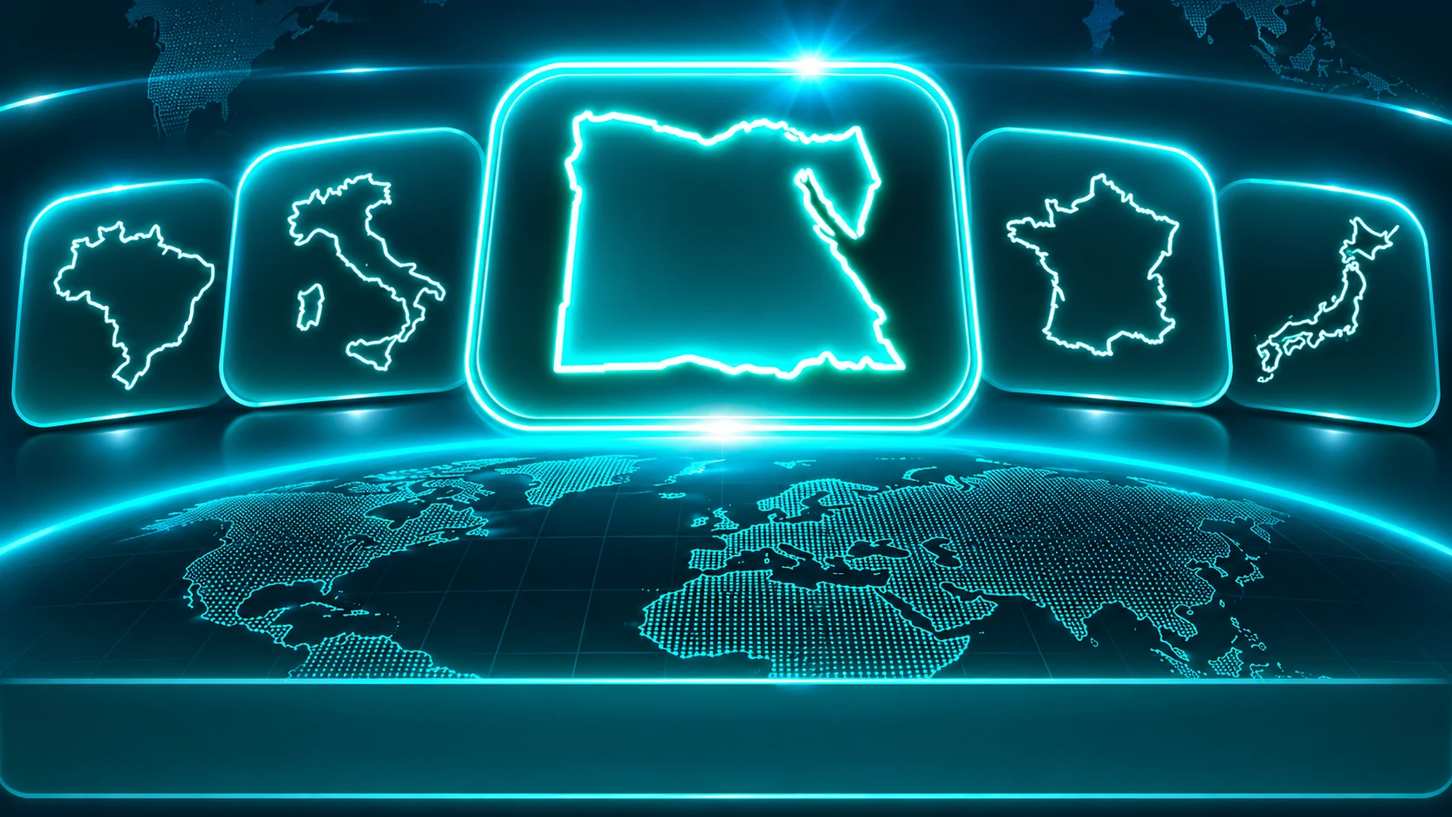
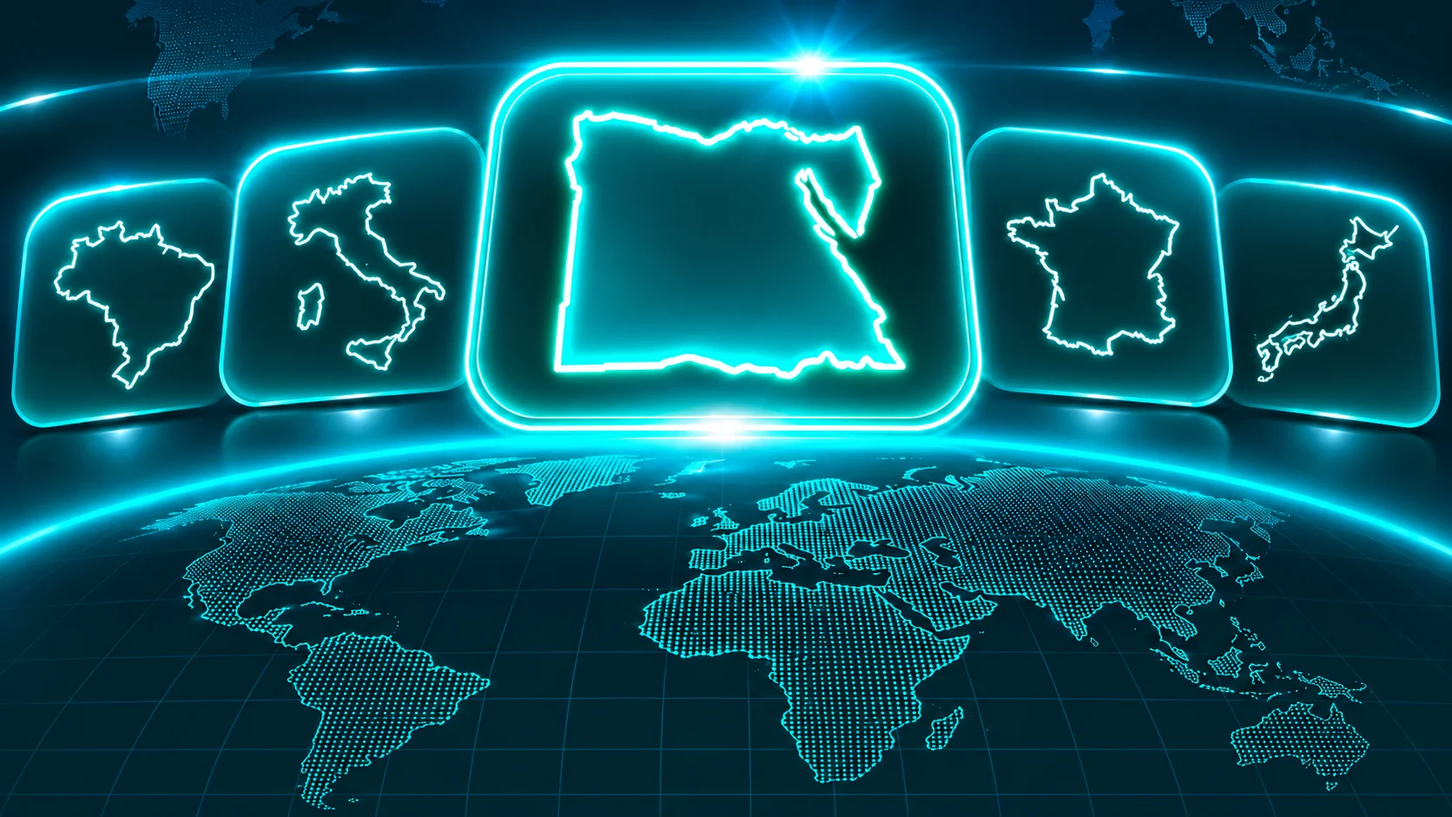
Unify contextual navigation and clean up silhouette game cover

diff --git a/index.html b/index.html
@@ -495,7 +495,7 @@ catch(e){document.documentElement.dataset.gvInitialTheme='dark'}
 <link rel="stylesheet" href="./astronomy-v231.css?v=gv338-astronomy-unified-hero-uncropped">
 <link rel="stylesheet" href="./solar-system-v232.css?v=gv233-solar-view">
 <link rel="stylesheet" href="./planet-experience-v234.css?v=gv237-structural-mobile-grid">
-<link rel="stylesheet" href="./astronomy-experiences-v235.css?v=gv269-clean-layout">
+<link rel="stylesheet" href="./astronomy-experiences-v235.css?v=gv678-context-navigation">
 <link rel="stylesheet" href="./astronomy-lessons-v238.css?v=gv238-expanded-lessons">
 <link rel="stylesheet" href="./astronomy-chapters-v239.css?v=gv269-clean-layout">
 <link rel="stylesheet" href="./astronomy-depth-v242.css?v=gv242-audit">
@@ -516,7 +516,7 @@ catch(e){document.documentElement.dataset.gvInitialTheme='dark'}
 <link rel="stylesheet" href="./tourism-navigation-premium-v539.css?v=gv539-premium-nav-icons">
 <link rel="stylesheet" href="./tourism-card-icons-v540.css?v=gv540-card-vector-icons">
 <link rel="stylesheet" href="./tourism-image-finish-v534.css?v=gv537-seam-softening">
-<link rel="stylesheet" href="./navigation-global-compact-v543.css?v=gv545-vector-back">
+<link rel="stylesheet" href="./navigation-global-compact-v543.css?v=gv678-context-navigation">
 <link rel="stylesheet" href="./tourism-country-spacing-v546.css?v=gv547-inline-count">
 <link rel="stylesheet" href="./header-brand-layout-v548.css?v=gv548-brand-right-no-grid">
 <link rel="stylesheet" href="./home-wonders-section-v550.css?v=gv553-three-dividers">
@@ -655,7 +655,7 @@ window.__gv138BootFailsafe=setTimeout(function(){
 </div>
 <script src="https://cdn.jsdelivr.net/npm/d3-array@3/dist/d3-array.min.js"></script><script src="https://cdn.jsdelivr.net/npm/d3-geo@3/dist/d3-geo.min.js"></script><script src="https://cdn.jsdelivr.net/npm/topojson-client@3/dist/topojson-client.min.js"></script>
 <script src="https://cdn.jsdelivr.net/npm/globe.gl@2.46.2/dist/globe.gl.min.js"></script><script src="./app.js?v=gv669-desert-expansion"></script><script src="./category-premium-covers-v176.js?v=gv549-world-astronomy"></script><script src="./place-copy-v103.js?v=gv106-waterfall-intros"></script><script src="./quality.js?v=phase41-a91d6"></script><script src="./enhancements-v136.js?v=gv669-desert-expansion"></script><script src="./capital-localization.js?v=gv491-currency-localization"></script><script src="./language-v6.js?v=gv356-capital-placeholder-fix"></script><script src="./map-mobile-v6.js?v=phase41-a91d6"></script><script src="./reading-v6.js?v=phase41-a91d6"></script><script src="./map-v7.js?v=gv126-results-layout"></script><script src="./encyclopedia-v9.js?v=gv372-audit-pop-year"></script><script src="./cinematic-v10.js?v=phase41-a91d6"></script>
-<script src="./visual-v11.js?v=gv550-wonders-separator"></script><script src="./topics-v12.js?v=gv667-unique-forest-gulf-counts"></script><script src="./places-v13.js?v=gv669-desert-expansion"></script><script src="./detail-v14.js?v=gv669-desert-expansion"></script><script src="./home-v17.js?v=gv677-home-progress"></script><script src="./icons-v18.js?v=phase46-cache-fix"></script><script src="./game-bank-v109.js?v=gv111-game-pools"></script><script src="./game-countries-v111.js?v=gv493-flag-games-qa"></script><script src="./game-levels-v110.js?v=gv111-difficulty-atlas-fix"></script><script src="./map-challenge-v112.js?v=gv112-161-map-countries"></script><script src="./game-classify-v113.js?v=gv113b-no-answer-leaks"></script><script src="./game-quality-v114.js?v=gv114b-curated-quiz-integrity"></script><script src="./game-concepts-v115.js?v=gv115-concepts100"></script><script src="./game-expansion-v115.js?v=gv116-curated-quiz-bank"></script><script src="./game-classification-v116.js?v=gv116b-reviewed-classification"></script><script src="./game-language-v123.js?v=gv123-all-options-localized"></script><script src="./game-bilingual-v124.js?v=gv124-two-line-answers"></script><script src="./premium-loader-v139.js"></script><script src="./atlas-premium-v155.js?v=gv595-initial-map-filter"></script><script src="./atlas-landmarks-v154.js?v=gv166-focus-hook"></script><script src="./atlas-safe-regions-v150.js"></script><script src="./map-toolbar-v146.js?v=gv163-restored-categories"></script><script src="./atlas-ocean-dots-v152.js"></script><script src="./atlas-card-consistency-v156.js"></script><script src="./atlas-country-shell-v157.js"></script><script src="./atlas-smart-explore-v158.js"></script><script src="./map-first-mobile-v160.js?v=gv160-fix"></script><script src="./map-filters-compact-v161.js?v=gv161-preserve-landmarks"></script><script src="./map-mobile-fit-v162.js?v=gv162-viewport-fix"></script><script src="./atlas-learning-cards-v164.js?v=gv669-desert-expansion"></script><script src="./atlas-smart-highlight-v167.js?v=gv167-focus-fix"></script><script src="./tourism-attractions-v168.js?v=gv657-tourism-intro-lines"></script><script src="./tourism-filter-visibility-v169.js?v=gv169-visible-filter"></script><script src="./tourism-country-guide-v170.js?v=gv620-72-countries"></script><script src="./tourism-country-cards-v181.js?v=gv656-tourism-intro"></script><script src="./sidebar-toggle-fix-v181.js?v=gv217-sections-shortcut"></script><script src="./tourism-articles-ar-v202.js?v=gv202-48-editorial-articles"></script><script src="./tourism-enrichment-v206.js?v=gv206-eg-fr-8"></script><script src="./tourism-enrichment-v207.js?v=gv207-it-sa-8"></script><script src="./tourism-enrichment-v208.js?v=gv208-turkey-spain-8"></script><script src="./tourism-enrichment-v212.js?v=gv212-uk-us-8"></script><script src="./tourism-enrichment-v213.js?v=gv213-cn-in-8"></script><script src="./tourism-enrichment-v214.js?v=gv214-jp-ae-8"></script><script src="./tourism-enrichment-v215.js?v=gv215-asia-16"></script><script src="./tourism-editorial-phase1-v505.js?v=gv505-editorial-24"></script><script src="./tourism-editorial-phase2-v506.js?v=gv507-editorial-40-keyfix"></script><script src="./tourism-editorial-phase3-v507.js?v=gv622-strasbourg"></script><script src="./tourism-editorial-phase4-v508.js?v=gv508-editorial-40"></script><script src="./tourism-editorial-phase5-v509.js?v=gv509-editorial-29"></script><script src="./tourism-editorial-phase6-v510.js?v=gv510-vietnam-three"></script><script src="./tourism-deep-enrichment-v597.js?v=gv646-final-length-audit"></script><script src="./tourism-english-profiles-v647.js?v=gv666-english-complete"></script><script src="./tourism-knowledge-v196.js?v=gv656-tourism-intro"></script><script src="./navigation-refresh-v193.js?v=gv218-recovery"></script><script src="./wonders-atlas-v228.js?v=gv270-text-cleanup"></script><script src="./astronomy-v231.js?v=gv338-astronomy-unified-hero-uncropped"></script><script src="./solar-system-v232.js?v=gv253-render-embedded-summaries"></script><script src="./planet-experience-v234.js?v=gv237-two-physical-rows"></script><script src="./astronomy-experiences-v235.js?v=gv269-clean-layout"></script><script src="./astronomy-lessons-v238.js?v=gv284-final-science-edit"></script><script src="./astronomy-chapters-v239.js?v=gv285-ar-figures-final"></script><script src="./astronomy-depth-v242.js?v=gv242-audit"></script><script src="./astronomy-editorial-v252.js?v=gv254-venus-accuracy"></script>
+<script src="./visual-v11.js?v=gv550-wonders-separator"></script><script src="./topics-v12.js?v=gv667-unique-forest-gulf-counts"></script><script src="./places-v13.js?v=gv669-desert-expansion"></script><script src="./detail-v14.js?v=gv669-desert-expansion"></script><script src="./home-v17.js?v=gv678-context-navigation"></script><script src="./icons-v18.js?v=phase46-cache-fix"></script><script src="./game-bank-v109.js?v=gv111-game-pools"></script><script src="./game-countries-v111.js?v=gv493-flag-games-qa"></script><script src="./game-levels-v110.js?v=gv111-difficulty-atlas-fix"></script><script src="./map-challenge-v112.js?v=gv112-161-map-countries"></script><script src="./game-classify-v113.js?v=gv113b-no-answer-leaks"></script><script src="./game-quality-v114.js?v=gv114b-curated-quiz-integrity"></script><script src="./game-concepts-v115.js?v=gv115-concepts100"></script><script src="./game-expansion-v115.js?v=gv116-curated-quiz-bank"></script><script src="./game-classification-v116.js?v=gv116b-reviewed-classification"></script><script src="./game-language-v123.js?v=gv123-all-options-localized"></script><script src="./game-bilingual-v124.js?v=gv124-two-line-answers"></script><script src="./premium-loader-v139.js"></script><script src="./atlas-premium-v155.js?v=gv595-initial-map-filter"></script><script src="./atlas-landmarks-v154.js?v=gv166-focus-hook"></script><script src="./atlas-safe-regions-v150.js"></script><script src="./map-toolbar-v146.js?v=gv163-restored-categories"></script><script src="./atlas-ocean-dots-v152.js"></script><script src="./atlas-card-consistency-v156.js"></script><script src="./atlas-country-shell-v157.js"></script><script src="./atlas-smart-explore-v158.js"></script><script src="./map-first-mobile-v160.js?v=gv160-fix"></script><script src="./map-filters-compact-v161.js?v=gv161-preserve-landmarks"></script><script src="./map-mobile-fit-v162.js?v=gv162-viewport-fix"></script><script src="./atlas-learning-cards-v164.js?v=gv669-desert-expansion"></script><script src="./atlas-smart-highlight-v167.js?v=gv167-focus-fix"></script><script src="./tourism-attractions-v168.js?v=gv657-tourism-intro-lines"></script><script src="./tourism-filter-visibility-v169.js?v=gv169-visible-filter"></script><script src="./tourism-country-guide-v170.js?v=gv620-72-countries"></script><script src="./tourism-country-cards-v181.js?v=gv678-context-navigation"></script><script src="./sidebar-toggle-fix-v181.js?v=gv217-sections-shortcut"></script><script src="./tourism-articles-ar-v202.js?v=gv202-48-editorial-articles"></script><script src="./tourism-enrichment-v206.js?v=gv206-eg-fr-8"></script><script src="./tourism-enrichment-v207.js?v=gv207-it-sa-8"></script><script src="./tourism-enrichment-v208.js?v=gv208-turkey-spain-8"></script><script src="./tourism-enrichment-v212.js?v=gv212-uk-us-8"></script><script src="./tourism-enrichment-v213.js?v=gv213-cn-in-8"></script><script src="./tourism-enrichment-v214.js?v=gv214-jp-ae-8"></script><script src="./tourism-enrichment-v215.js?v=gv215-asia-16"></script><script src="./tourism-editorial-phase1-v505.js?v=gv505-editorial-24"></script><script src="./tourism-editorial-phase2-v506.js?v=gv507-editorial-40-keyfix"></script><script src="./tourism-editorial-phase3-v507.js?v=gv622-strasbourg"></script><script src="./tourism-editorial-phase4-v508.js?v=gv508-editorial-40"></script><script src="./tourism-editorial-phase5-v509.js?v=gv509-editorial-29"></script><script src="./tourism-editorial-phase6-v510.js?v=gv510-vietnam-three"></script><script src="./tourism-deep-enrichment-v597.js?v=gv646-final-length-audit"></script><script src="./tourism-english-profiles-v647.js?v=gv666-english-complete"></script><script src="./tourism-knowledge-v196.js?v=gv656-tourism-intro"></script><script src="./navigation-refresh-v193.js?v=gv218-recovery"></script><script src="./wonders-atlas-v228.js?v=gv270-text-cleanup"></script><script src="./astronomy-v231.js?v=gv338-astronomy-unified-hero-uncropped"></script><script src="./solar-system-v232.js?v=gv253-render-embedded-summaries"></script><script src="./planet-experience-v234.js?v=gv237-two-physical-rows"></script><script src="./astronomy-experiences-v235.js?v=gv678-context-navigation"></script><script src="./astronomy-lessons-v238.js?v=gv284-final-science-edit"></script><script src="./astronomy-chapters-v239.js?v=gv285-ar-figures-final"></script><script src="./astronomy-depth-v242.js?v=gv242-audit"></script><script src="./astronomy-editorial-v252.js?v=gv254-venus-accuracy"></script>
 <script src="./astronomy-fact-explanations-v277.js?v=gv284-final-science-edit"></script>
 <script src="./astronomy-comparisons-v278.js?v=gv283-content-polish"></script>
 <script src="./astronomy-reading-flow-v281.js?v=gv285-ar-science-figures"></script><script>
@@ -682,7 +682,7 @@ window.__gv138BootFailsafe=setTimeout(function(){
 <script src="./editorial-visible-v294.js?v=gv294-sitewide-cleanup"></script>
 <script src="./river-reading-v299.js?v=gv302-river-premium-polish"></script>
 <script src="./sea-reading-v311.js?v=gv319-final-seas-enrichment"></script>
-<script src="./smart-back-v351.js?v=gv398-contextual-destination-api"></script>
+<script src="./smart-back-v351.js?v=gv678-context-navigation"></script>
 <script src="./continents-guide-v372.js?v=gv372-continents-phase1"></script>
 <script src="./continents-photos-v373.js?v=gv380-premium-real-7-covers"></script>
 <script src="./continents-map-v381.js?v=gv393-country-quick-preview"></script>
@@ -690,7 +690,7 @@ window.__gv138BootFailsafe=setTimeout(function(){
 <script src="./continents-highlights-v385.js?v=gv385-seven-continents-natural-highlights"></script>
 <script src="./continents-navigation-v386.js?v=gv395-continent-copy"></script>
 <script src="./country-context-back-v387.js?v=gv389-matched-country-buttons"></script>
-<script src="./navigation-unified-v388.js?v=gv545-no-text-arrows"></script>
+<script src="./navigation-unified-v388.js?v=gv678-context-navigation"></script>
 <script src="./continents-landing-compact-v394.js?v=gv394-compact-continent-home"></script>
 <script src="./marine-atlas-polish-v396.js?v=gv396-oceans-seas-mobile"></script>
  <script src="./connected-maps-v400.js?v=gv594-all-country-islands"></script>

diff --git a/smart-back-v351.js b/smart-back-v351.js
@@ -16,7 +16,7 @@ function pageKey(v){
  if(!v)return '';
  if(v.page==='country-v4')return 'country:'+String(v.code||'');
  if(v.page==='countries-v4')return 'countries:'+String(v.continent||'all');
- if(v.page==='category')return 'category:'+String(v.category||'')+(v.category==='tourism'?':'+String(v.tourism||''):'');
+ if(v.page==='category')return 'category:'+String(v.category||'')+':'+categoryView(v);
  if(v.page==='detail')return 'detail:'+String(v.category||'')+':'+String(v.item??'');
  return String(v.page||'');
 }
@@ -57,12 +57,19 @@ function snapshot(){
   page:state.page,category:cat,item,
   code:typeof state.v4Code==='string'?state.v4Code:null,
   continent:state.v4Continent||'all',
+  astronomy:window.GeoVerseAstronomyExperiencesV235?.getView?.()||'overview',
   tourism:window.GeoVerseTourismCountryNavigation?.getSelected?.()||'',
   scroll:Math.max(0,Math.round(window.scrollY||0))
  };
 }
+function categoryView(v){
+ if(v.category==='tourism')return v.tourism||'';
+ if(v.category==='astronomy')return v.astronomy||'overview';
+ return '';
+}
 function same(a,b){
  return !!a&&!!b&&a.page===b.page&&a.category===b.category&&a.item===b.item&&
+  (a.page!=='category'||categoryView(a)===categoryView(b))&&
   (a.page!=='country-v4'||a.code===b.code)&&
   (a.page!=='countries-v4'||a.continent===b.continent);
 }
@@ -128,6 +135,9 @@ render=function(){
  return result;
 };
 function fallback(){
+ if(state.page==='category'&&categoryView(snapshot())!==categoryView({category:state.category})){
+  return {page:'category',category:state.category,item:null,scroll:0};
+ }
  if(state.page==='detail')return {page:'category',category:state.category,item:null,scroll:0};
  if(state.page==='country-v4')return {page:'countries-v4',category:'countries',item:null,scroll:0,continent:'all'};
  if(state.page==='category'||state.page==='countries-v4')return {page:'all',category:null,item:null,scroll:0};
@@ -139,7 +149,16 @@ function goBackTo(target){
  restoreOverride=Math.max(0,target.scroll??pagePositions.get(pageKey(target))??0);
  try{
   if(target.page==='countries-v4'&&target.continent)state.v4Continent=target.continent;
-  if(target.page==='category'&&target.category==='tourism')window.GeoVerseTourismCountryNavigation?.setSelected?.(target.tourism||'');
+  if(target.page==='category'&&target.category==='astronomy')window.GeoVerseAstronomyExperiencesV235?.setView?.(target.astronomy);
+  const tourism=window.GeoVerseTourismCountryNavigation;
+  if(target.page==='category'&&target.category==='tourism'&&tourism){
+   // The tourism page initializer resets the selection on entrance.
+   if(state.category!=='tourism'&&target.tourism){
+    setPage('category','tourism');
+    restoreOverride=Math.max(0,target.scroll||0);
+   }
+   tourism.setSelected(target.tourism||'');
+  }
   setPage(target.page,target.page==='country-v4'?target.code:target.category,target.item);
   previous=snapshot();
  }finally{suppress=false;clickOrigin=null;restoreOverride=null;}
@@ -153,8 +172,22 @@ function smartBack(){
   goBackTo(target);
   return;
  }
+ const current=snapshot();
+ while(stack.length&&same(stack[stack.length-1],current))stack.pop();
  const target=stack.length?stack.pop():fallback();
  goBackTo(target);
+}
+function returnToCategory(category){
+ const parent={page:'category',category,item:null};
+ let index=stack.length-1;
+ while(index>=0&&!same(stack[index],parent))index--;
+ if(index>=0){
+  const target=stack[index];
+  stack.length=index;
+  goBackTo(target);
+ }else{
+  goBackTo(parent);
+ }
 }
 function returnToCountry(){
  if(!countryReferral)return smartBack();
@@ -187,9 +220,9 @@ document.addEventListener('click',event=>{
   smartBack();
   return;
  }
- if(event.target.closest?.('[data-page],[data-cat],[data-item],[data-v4-country],[data-atlas-open],[data-gv17-game],.gv-knowledge-link')){
+ if(event.target.closest?.('[data-gv181-country],[data-page],[data-cat],[data-item],[data-v4-country],[data-atlas-open],[data-gv17-game],.gv-knowledge-link')){
   clickOrigin=snapshot();
  }
 },true);
-window.GeoVerseSmartBack={back:smartBack,returnCountry:returnToCountry,depth:()=>stack.length,peek:()=>{if(state.page==='country-v4'&&immediateCountryOrigin)return {...immediateCountryOrigin};return stack.length?{...stack[stack.length-1]}:fallback();}};
+window.GeoVerseSmartBack={back:smartBack,returnToCategory,returnCountry:returnToCountry,depth:()=>stack.length,peek:()=>{if(state.page==='country-v4'&&immediateCountryOrigin)return {...immediateCountryOrigin};return stack.length?{...stack[stack.length-1]}:fallback();}};
 })();

diff --git a/astronomy-experiences-v235.js b/astronomy-experiences-v235.js
@@ -9,9 +9,6 @@ const T=(ar,en)=>state.lang==='ar'?ar:en;
 const escape=s=>String(s??'').replace(/[&<>"']/g,c=>({'&':'&amp;','<':'&lt;','>':'&gt;','"':'&quot;',"'":'&#39;'}[c]));
 const views=new Set(['solar','journey']);
 let current='overview';
-function back(){
- return '<button class="gv235-back" type="button" data-gv235-view="overview"><span aria-hidden="true">→</span>'+T('الرجوع إلى الجغرافيا الفلكية','Back to Astronomical Geography')+'</button>';
-}
 function featureCards(){
  return '<section class="gv235-feature-hub"><div class="gv235-head"><div><h2>'+T('تجارب فلكية تفاعلية','Interactive Space Experiences')+'</h2></div></div><div class="gv235-features">'+
  '<button type="button" class="gv235-feature gv235-feature-solar" data-gv235-view="solar"><span class="gv235-picture" aria-hidden="true"></span><span class="gv235-shade"></span><span class="gv235-content"><strong>'+T('جولة في المجموعة الشمسية','Explore the Solar System')+'</strong><span>'+T('شاهد مدارات الكواكب، واكتشف أحجامها والمسافات بينها بطريقة سهلة.','Explore the orbits and compare the sizes and distances of the planets.')+'</span><span class="gv235-launch">'+T('ابدأ الجولة','Start exploring')+' <b aria-hidden="true">↗</b></span></span></button>'+
@@ -21,7 +18,7 @@ function experience(view){
  const isSolar=view==='solar';
  const inner=isSolar?solar.model():planet.widget('category');
  const title=isSolar?T('جولة في المجموعة الشمسية','Explore the Solar System'):T('تخيّل رحلتك بين الكواكب','Imagine a Journey Among Planets');
- return '<div class="gv231-wrap gv235-experience-page" data-gv235-page="'+view+'">'+back()+'<div class="gv235-context"><h1>'+escape(title)+'</h1></div>'+inner+
+ return '<div class="gv231-wrap gv235-experience-page" data-gv235-page="'+view+'">'+'<div class="gv235-context"><h1>'+escape(title)+'</h1></div>'+inner+
  '<div class="gv235-foot"><button type="button" data-gv235-view="overview">'+T('العودة لكل موضوعات الجغرافيا الفلكية','Return to all astronomy topics')+' →</button></div></div>';
 }
 const previousCategory=categoryPage;
@@ -37,10 +34,16 @@ function open(view){
 }
 document.addEventListener('click',e=>{
  const trigger=e.target.closest('[data-gv235-view]');
- if(trigger){e.preventDefault();e.stopImmediatePropagation();open(trigger.dataset.gv235View);return}
+ if(trigger){
+  e.preventDefault();e.stopImmediatePropagation();
+  const view=trigger.dataset.gv235View;
+  if(view==='overview'&&window.GeoVerseSmartBack?.returnToCategory)window.GeoVerseSmartBack.returnToCategory('astronomy');
+  else open(view);
+  return;
+ }
  const entry=e.target.closest('[data-cat="astronomy"]');
  if(entry)current='overview';
 },true);
-window.GeoVerseAstronomyExperiencesV235={open,getView:()=>current};
+window.GeoVerseAstronomyExperiencesV235={open,getView:()=>current,setView:view=>{current=views.has(view)?view:'overview';}};
 if(state.page==='category'&&state.category==='astronomy')render();
 })();

diff --git a/navigation-unified-v388.js b/navigation-unified-v388.js
@@ -72,6 +72,17 @@ function addMainNavigation(){
   }
   return;
  }
+ const experience=root.querySelector('.gv235-experience-page');
+ if(state.page==='category'&&state.category==='astronomy'&&experience){
+  const target=window.GeoVerseSmartBack?.peek?.();
+  const parentIsPrevious=target?.page==='category'&&target.category==='astronomy'&&(!target.astronomy||target.astronomy==='overview');
+  const nav=row();
+  nav.append(button(parentIsPrevious?txt('إلى الجغرافيا الفلكية','Astronomical Geography'):txt('رجوع','Back'),'back'));
+  if(!parentIsPrevious)nav.append(button(txt('إلى الجغرافيا الفلكية','Astronomical Geography'),'astronomy'));
+  nav.append(button(txt('كل الأقسام','All sections'),'all'));
+  root.prepend(nav);
+  return;
+ }
  if(root.querySelector('.gv388-nav'))return;
  // Section landing pages: contextual Back plus a predictable atlas directory shortcut.
  if(state.page==='category'||state.page==='countries-v4'){
@@ -113,7 +124,6 @@ function removeDuplicateShortcuts(){
  }
  if(state.page==='category'&&state.category==='tourism'&&window.GeoVerseTourismCountryNavigation?.getSelected?.()&&target.page==='category'&&target.category==='tourism'){
   root.querySelector('.gv388-nav [data-gv388-action="tourism-back"]')?.remove();
-  root.querySelector('[data-gv181-back]')?.remove();
  }
 }
 const priorRender=render;
@@ -125,6 +135,7 @@ document.addEventListener('click',function(e){
  const action=trigger.dataset.gv388Action;
  if(action==='back'){if(window.GeoVerseSmartBack?.back)window.GeoVerseSmartBack.back();else setPage('all');}
  else if(action==='all')setPage('all');
+ else if(action==='astronomy')window.GeoVerseSmartBack?.returnToCategory('astronomy');
  else if(action==='section')setPage('category',state.category);
  else if(action==='continent-back')document.querySelector('#main [data-gv-c5-back]')?.click();
  else if(action==='tourism-back')document.querySelector('#main [data-gv181-back]')?.click();

diff --git a/astronomy-experiences-v235.css b/astronomy-experiences-v235.css
@@ -17,9 +17,7 @@
 .gv235-launch b{font-size:18px;line-height:1}
 .gv235-feature:hover{transform:translateY(-4px);border-color:#9cebdc;box-shadow:0 24px 41px #0007}
 .gv235-feature:hover .gv235-picture{transform:scale(1.045)}
-.gv235-feature:focus-visible,.gv235-back:focus-visible{outline:3px solid #9dffea;outline-offset:3px}
-.gv235-back{display:inline-flex;align-items:center;gap:9px;border:1px solid rgba(105,216,223,.65);background:#0c3a52;color:#dffffb;font-size:12px;font-weight:900;border-radius:12px;padding:11px 15px;margin:0 0 20px;cursor:pointer}
-.gv235-back span{font-size:19px;line-height:1}
+.gv235-feature:focus-visible{outline:3px solid #9dffea;outline-offset:3px}
 .gv235-context{margin:0 0 14px}.gv235-context h1{font-size:clamp(26px,3.1vw,40px);line-height:1.35;margin:6px 0}
 .gv235-experience-page .gv232-shell,.gv235-experience-page .gv234-root{margin:0 0 22px}
 .gv235-foot{padding:8px 0 30px;text-align:center}.gv235-foot button{border:1px solid rgba(96,180,195,.7);background:#103e56;color:#e6ffff;border-radius:12px;padding:12px 20px;font-weight:800;cursor:pointer}

diff --git a/navigation-global-compact-v543.css b/navigation-global-compact-v543.css
@@ -12,7 +12,7 @@
  gap:9px!important;
  margin-block:0 12px!important;
  padding:0!important;
- direction:rtl!important;
+ direction:inherit!important;
  grid-template-columns:none!important;
 }
 #app #main :is(
@@ -176,4 +176,20 @@ html[lang="en"] #app #main :is(
  .gv387-country-nav > button:first-child,
  .gv-landmark-back-row > button:first-child
  )::before{flex-basis:15px!important;inline-size:15px!important;block-size:15px!important;}
+}
+
+/* Keep three contextual actions together when all three destinations differ. */
+@media(max-width:540px){
+ #app #main :is(.gv388-nav,.gv387-country-nav,.gv-landmark-back-row):has(> button:nth-child(3)){
+  display:grid!important;
+  grid-template-columns:repeat(3,minmax(0,1fr))!important;
+  gap:6px!important;
+  align-items:stretch!important;
+ }
+ #app #main :is(.gv388-nav,.gv387-country-nav,.gv-landmark-back-row):has(> button:nth-child(3)) > button{
+  align-self:stretch!important;
+  width:100%!important;
+  padding-inline:6px!important;
+  gap:4px!important;
+ }
 }

diff --git a/tourism-country-cards-v181.js b/tourism-country-cards-v181.js
@@ -96,6 +96,10 @@ document.addEventListener('click',event=>{
  const b=event.target.closest?.('[data-gv181-country],[data-gv181-back]');
  if(!b)return;
  event.preventDefault();event.stopImmediatePropagation();
+ if(b.hasAttribute('data-gv181-back')&&window.GeoVerseSmartBack?.returnToCategory){
+  window.GeoVerseSmartBack.returnToCategory('tourism');
+  return;
+ }
  if(b.hasAttribute('data-gv181-back'))selected='';
  else selected=b.dataset.gv181Country;
  state.filter='';

diff --git a/home-v17.js b/home-v17.js
@@ -44,7 +44,7 @@ function numbers(){
 const homeGameCovers={
  capitals:'capitals.webp?v=gv676',
  flags:'flags.webp',
- silhouette:'country-shape.webp',
+ silhouette:'country-shape.webp?v=gv678',
  mapfind:'locate-country.webp?v=gv677'
 };
 function games(){
